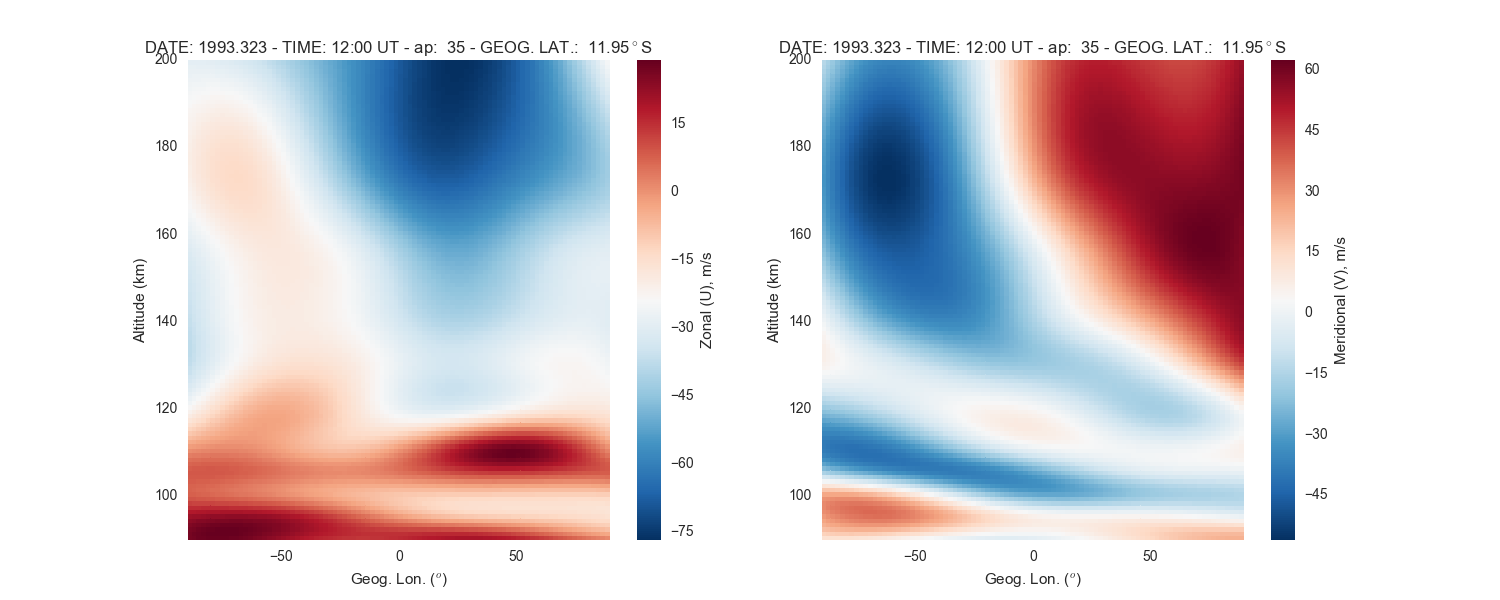
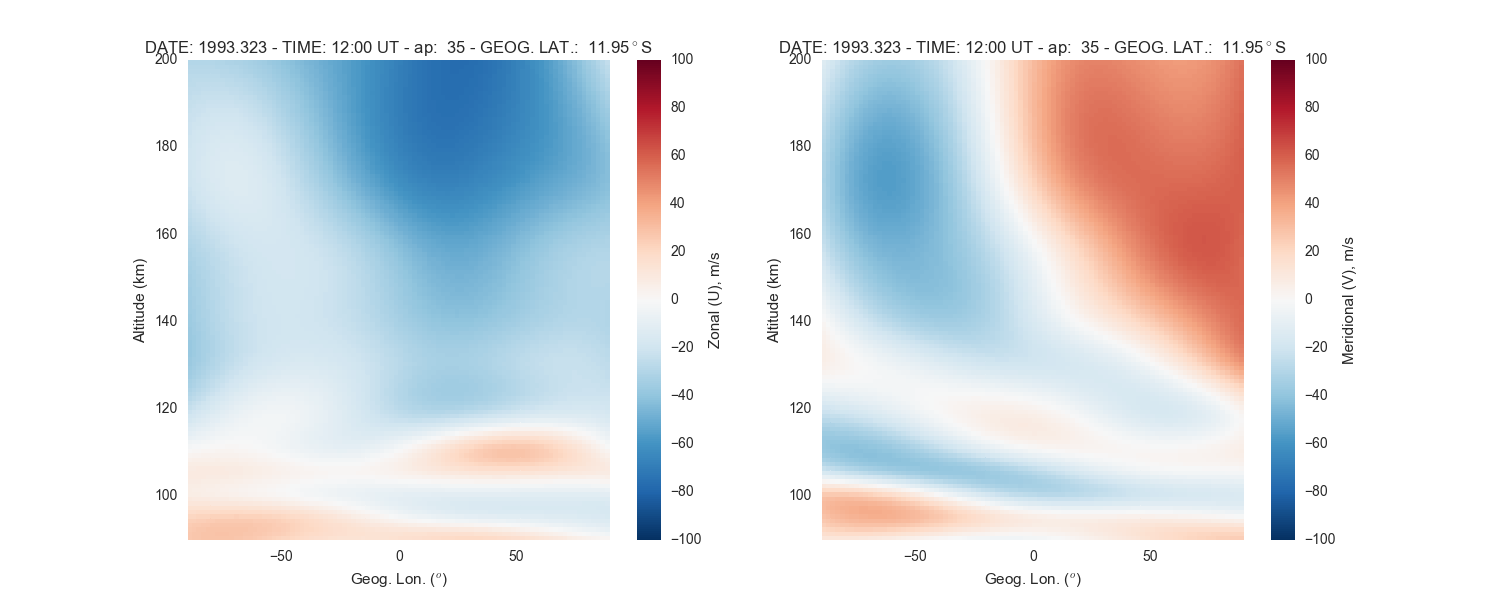
Wind range in colorbar

diff --git a/pyhwm2014/pyhwm14.py b/pyhwm2014/pyhwm14.py
@@ -641,7 +641,7 @@ class HWM142D:
 
 class HWM142DPlot:
 
-    def __init__( self, profObj=None ):
+    def __init__( self, profObj=None, zMax=[None]*2, zMin=[None]*2 ):
 
         """
             Constructor of class resposible of graphical reports for the
@@ -650,6 +650,8 @@ class HWM142DPlot:
         """
 
         if profObj != None:
+
+            self.zMin, self.zMax = zMin, zMax            
 
             self.option = profObj.option
 
@@ -724,7 +726,7 @@ class HWM142DPlot:
         apStr = 'ap: {:3d}'.format(self.ap[1])
         
         try:
-            altStr = 'ALT: {:7.2f}'.format(self.alt)
+            altStr = 'ALT: {:7.2f} km'.format(self.alt)
         except:
             pass
 
@@ -827,13 +829,13 @@ class HWM142DPlot:
 
         self.XVsY2DPlot( ax, self.utbins, self.altbins, self.Uwind, cmap=cmap,
             title=self.title, xlabel=r'Hour (GMT)', xlim=self.utlim, ylabel=r'Altitude (km)',
-            ylim=self.altlim, zlabel=r'Zonal (U), m/s', zMax=None, zMin=None )
+            ylim=self.altlim, zlabel=r'Zonal (U), m/s', zMax=self.zMax[0], zMin=self.zMin[0] )
 
         ax = pylab.subplot(122)
 
         self.XVsY2DPlot( ax, self.utbins, self.altbins, self.Vwind, cmap=cmap,
             title=self.title, xlabel=r'Hour (GMT)', xlim=self.utlim, ylabel=r'Altitude (km)',
-            ylim=self.altlim, zlabel=r'Meridional (V), m/s', zMax=None, zMin=None )
+            ylim=self.altlim, zlabel=r'Meridional (V), m/s', zMax=self.zMax[1], zMin=self.zMin[1] )
 
     #
     # End of 'HeiProfPlot'
@@ -852,14 +854,14 @@ class HWM142DPlot:
         self.XVsY2DPlot( ax, self.glatbins, self.altbins, self.Uwind, cmap=cmap, 
             title=self.title, xlabel=r'Geog. Lat. ($^o$)', xlim=self.glatlim, 
             ylabel=r'Altitude (km)', ylim=self.altlim, zlabel=r'Zonal (U), m/s', 
-            zMax=None, zMin=None )
+            zMax=self.zMax[0], zMin=self.zMin[0] )
 
         ax = pylab.subplot(122)
 
         self.XVsY2DPlot( ax, self.glatbins, self.altbins, self.Vwind, cmap=cmap, 
             title=self.title, xlabel=r'Geog. Lat. ($^o$)', 
             xlim=self.glatlim, ylabel=r'Altitude (km)', ylim=self.altlim, 
-            zlabel=r'Meridional (V), m/s', zMax=None, zMin=None )
+            zlabel=r'Meridional (V), m/s', zMax=self.zMax[1], zMin=self.zMin[1] )
 
     #
     # End of 'LatVsHeiPlot'
@@ -878,14 +880,14 @@ class HWM142DPlot:
         self.XVsY2DPlot( ax, self.glonbins, self.altbins, self.Uwind, cmap=cmap, 
             title=self.title, xlabel=r'Geog. Lon. ($^o$)', xlim=self.glonlim, 
             ylabel=r'Altitude (km)', ylim=self.altlim, zlabel=r'Zonal (U), m/s', 
-            zMax=None, zMin=None )
+            zMax=self.zMax[0], zMin=self.zMin[0] )
 
         ax = pylab.subplot(122)
 
         self.XVsY2DPlot( ax, self.glonbins, self.altbins, self.Vwind, cmap=cmap, 
             title=self.title, xlabel=r'Geog. Lon. ($^o$)', 
             xlim=self.glonlim, ylabel=r'Altitude (km)', ylim=self.altlim, 
-            zlabel=r'Meridional (V), m/s', zMax=None, zMin=None )
+            zlabel=r'Meridional (V), m/s', zMax=self.zMax[1], zMin=self.zMin[1] )
 
     #
     # End of 'LonVsHeiPlot'
@@ -904,14 +906,14 @@ class HWM142DPlot:
         self.XVsY2DMap( ax, self.glonbins, self.glatbins, self.Uwind, cmap=cmap, 
             title=self.title, xlabel=r'Geog. Lon. ($^o$)', xlim=self.glonlim, 
             ylabel=r'Geog. Lat. ($^o$)', ylim=self.glatlim, zlabel=r'Zonal (U), m/s', 
-            zMax=None, zMin=None )
+            zMax=self.zMax[0], zMin=self.zMin[0] )
 
         ax = pylab.subplot(212)
 
         self.XVsY2DMap( ax, self.glonbins, self.glatbins, self.Vwind, cmap=cmap, 
             title=self.title, xlabel=r'Geog. Lon. ($^o$)', 
             xlim=self.glonlim, ylabel=r'Geog. Lat. ($^o$)', ylim=self.glatlim, 
-            zlabel=r'Meridional (V), m/s', zMax=None, zMin=None )
+            zlabel=r'Meridional (V), m/s', zMax=self.zMax[1], zMin=self.zMin[1] )
 
     #
     # End of 'LonVsLatPlot'

diff --git a/scripts/example01.py b/scripts/example01.py
@@ -5,8 +5,8 @@ if __name__ == '__main__':
         from pyhwm2014.pyhwm14 import HWM14, HWM14Plot
 
         # Single Height profile    
-        hwm14Obj = HWM14( altlim=[90,200], altstp=10, ap=[-1, 35], day=323,
-            option=1, ut=11.66667, verbose=True, year=1993 )
+        hwm14Obj = HWM14( altlim=[90,200], altstp=1, ap=[-1, 35], day=323,
+            option=1, ut=11.66667, verbose=False, year=1993 )
             
         # Height profile plot
         hwm14Gbj = HWM14Plot( profObj=hwm14Obj )

diff --git a/scripts/example12.py b/scripts/example12.py
@@ -10,7 +10,7 @@ if __name__ == '__main__':
             glatlim=[-90., 90.], glatstp=2., option=2, verbose=False, ut=12. )
 
         # Latitude vs Height plot
-        hwm14Gbj = HWM142DPlot( profObj=hwm14Obj )
+        hwm14Gbj = HWM142DPlot( profObj=hwm14Obj, zMin=[-250., -100], zMax=[250., 100.] )
 
 
     example12()

diff --git a/scripts/example14.py b/scripts/example14.py
@@ -10,6 +10,6 @@ if __name__ == '__main__':
             glonlim=[-90., 90.], glonstp=2., option=4, ut=12., verbose=False )
 
         # Longitude vs Height plot
-        hwm14Gbj = HWM142DPlot( profObj=hwm14Obj )
+        hwm14Gbj = HWM142DPlot( profObj=hwm14Obj, zMin=[-100., -100], zMax=[100., 100.] )
 
     example14()

diff --git a/scripts/example16.py b/scripts/example16.py
@@ -10,6 +10,6 @@ if __name__ == '__main__':
             glonlim=[-180., 180.], glonstp=2., option=6, verbose=False)
 
         # Latitude vs Longitude plot
-        hwm14Gbj = HWM142DPlot( profObj=hwm14Obj )
+        hwm14Gbj = HWM142DPlot( profObj=hwm14Obj, zMin=[-150., -150], zMax=[150., 150.] )
 
     example16()

diff --git a/scripts/example11.py b/scripts/example11.py
@@ -10,7 +10,7 @@ if __name__ == '__main__':
             utlim=[0.,23.75], utstp=.25, verbose=False )
 
         # Height vs GMT plot
-        hwm14Gbj = HWM142DPlot( profObj=hwm14Obj )
+        hwm14Gbj = HWM142DPlot( profObj=hwm14Obj, zMin=[-75., -100], zMax=[75., 100.] )
 
 
     example11()

diff --git a/README.rst b/README.rst
@@ -109,7 +109,7 @@ Height vs GMT
     >>> from pyhwm2014.pyhwm14 import HWM142D, HWM142DPlot
     >>> hwm14Obj = HWM142D(altlim=[90,200], altstp=2, ap=[-1, 35], 
             option=1, utlim=[0.,23.75], utstp=.25, verbose=False)
-    >>> hwm14Gbj = HWM142DPlot(profObj=hwm14Obj)
+    >>> hwm14Gbj = HWM142DPlot(profObj=hwm14Obj, zMin=[-75., -100], zMax=[75., 100.])
 
 .. image:: graphics/figure_11.png
     :scale: 100 %
@@ -123,7 +123,7 @@ Height vs Geog. Latitude
     >>> from pyhwm2014.pyhwm14 import HWM142D, HWM142DPlot
     >>> hwm14Obj = HWM142D(altlim=[90., 200.], altstp=2., ap=[-1, 35], 
             glatlim=[-90., 90.], glatstp=2., option=2, verbose=False, ut=12.)            
-    >>> hwm14Gbj = HWM142DPlot(profObj=hwm14Obj)
+    >>> hwm14Gbj = HWM142DPlot(profObj=hwm14Obj, zMin=[-250., -100], zMax=[250., 100.])
 
 .. image:: graphics/figure_12.png
     :scale: 100 %
@@ -137,7 +137,7 @@ Height vs Geog. Longitude
     >>> from pyhwm2014.pyhwm14 import HWM142D, HWM142DPlot
     >>> hwm14Obj = HWM142D(altlim=[90., 200.], altstp=1., ap=[-1, 35], 
             glonlim=[-90., 90.], glonstp=2., option=4, ut=12., verbose=False)            
-    >>> hwm14Gbj = HWM142DPlot(profObj=hwm14Obj)
+    >>> hwm14Gbj = HWM142DPlot(profObj=hwm14Obj, zMin=[-100., -100], zMax=[100., 100.])
 
 .. image:: graphics/figure_14.png
     :scale: 100 %
@@ -151,7 +151,7 @@ Geog. Latitude vs Geog. Longitude
     >>> from pyhwm2014.pyhwm14 import HWM142D, HWM142DPlot
     >>> hwm14Obj = HWM142D(alt=130., ap=[-1, 35], glatlim=[-90., 90.], 
             glatstp=1., glonlim=[-180., 180.], glonstp=2., option=6, verbose=False)
-    >>> hwm14Gbj = HWM142DPlot(profObj=hwm14Obj)
+    >>> hwm14Gbj = HWM142DPlot(profObj=hwm14Obj, zMin=[-150., -150], zMax=[150., 150.])
 
 .. image:: graphics/figure_16.png
     :scale: 100 %
